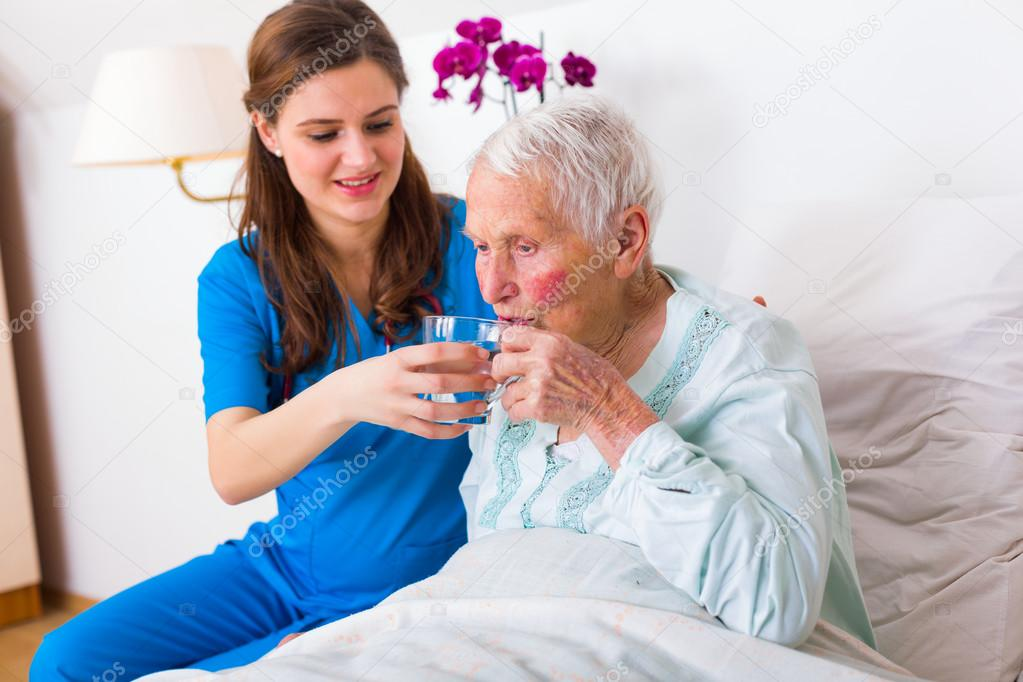
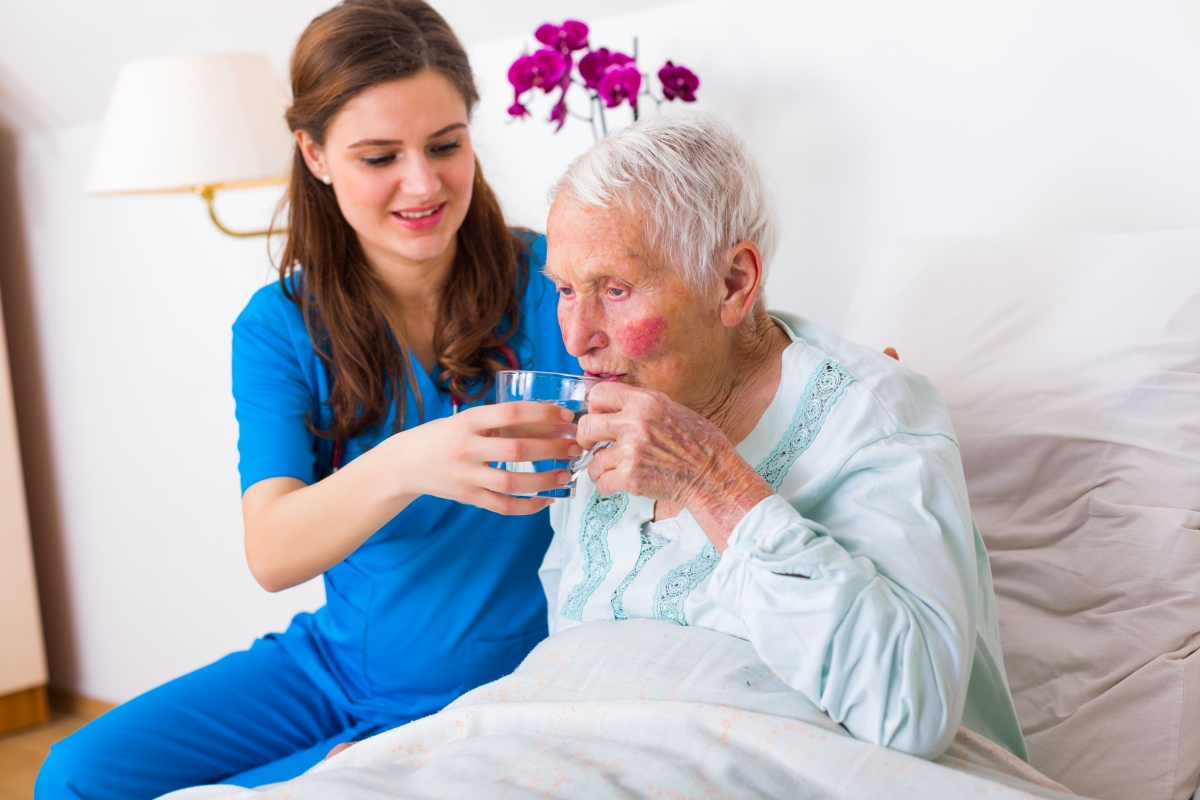
final

diff --git a/index.html b/index.html
@@ -33,7 +33,7 @@
             </form>
             </div> -->
       </nav>
-      <header class="py-5 bg-image-full img-fluid img-fill" style="background-image: url('images/viki-hero-image.jpg');">
+      <header class="py-5 bg-image-full img-fluid img-fill" style="background-image: url('images/viki-hero-image3.jpg');">
          <section class="hero">
          <div class="container-fluid">
             <div class="carousel-caption">
@@ -546,8 +546,15 @@
             <div class="row text-white mt-3">
                <!-- <div class="text-white"> -->
                   <div class="col-md-4">VIKI -Voice AI Companion For Seniors</div>
-                  <div class="col-md-5">IP, Copyright 2019 Owned By AiRo Digital Labs LLC</div>
-                  <a href='#top'><span class="col-md-1 ml-auto scroll-top"><i class="fa fa-angle-up"></i></span></a>
+                  <div class="col-md-4">IP, Copyright 2019 Owned By AiRo Digital Labs LLC</div>
+                  <a href='#top'>
+                     <div class="col-md-4">
+                        <span class="scroll-top">
+                           <i class="fa fa-angle-up"></i>
+                        </span>
+                     </div>
+                  </a>
+                  <!-- <a href='#top'><span class="scroll-top"><i class="fa fa-angle-up"></i></span></a> -->
                <!-- </div> -->
             </div>
             
